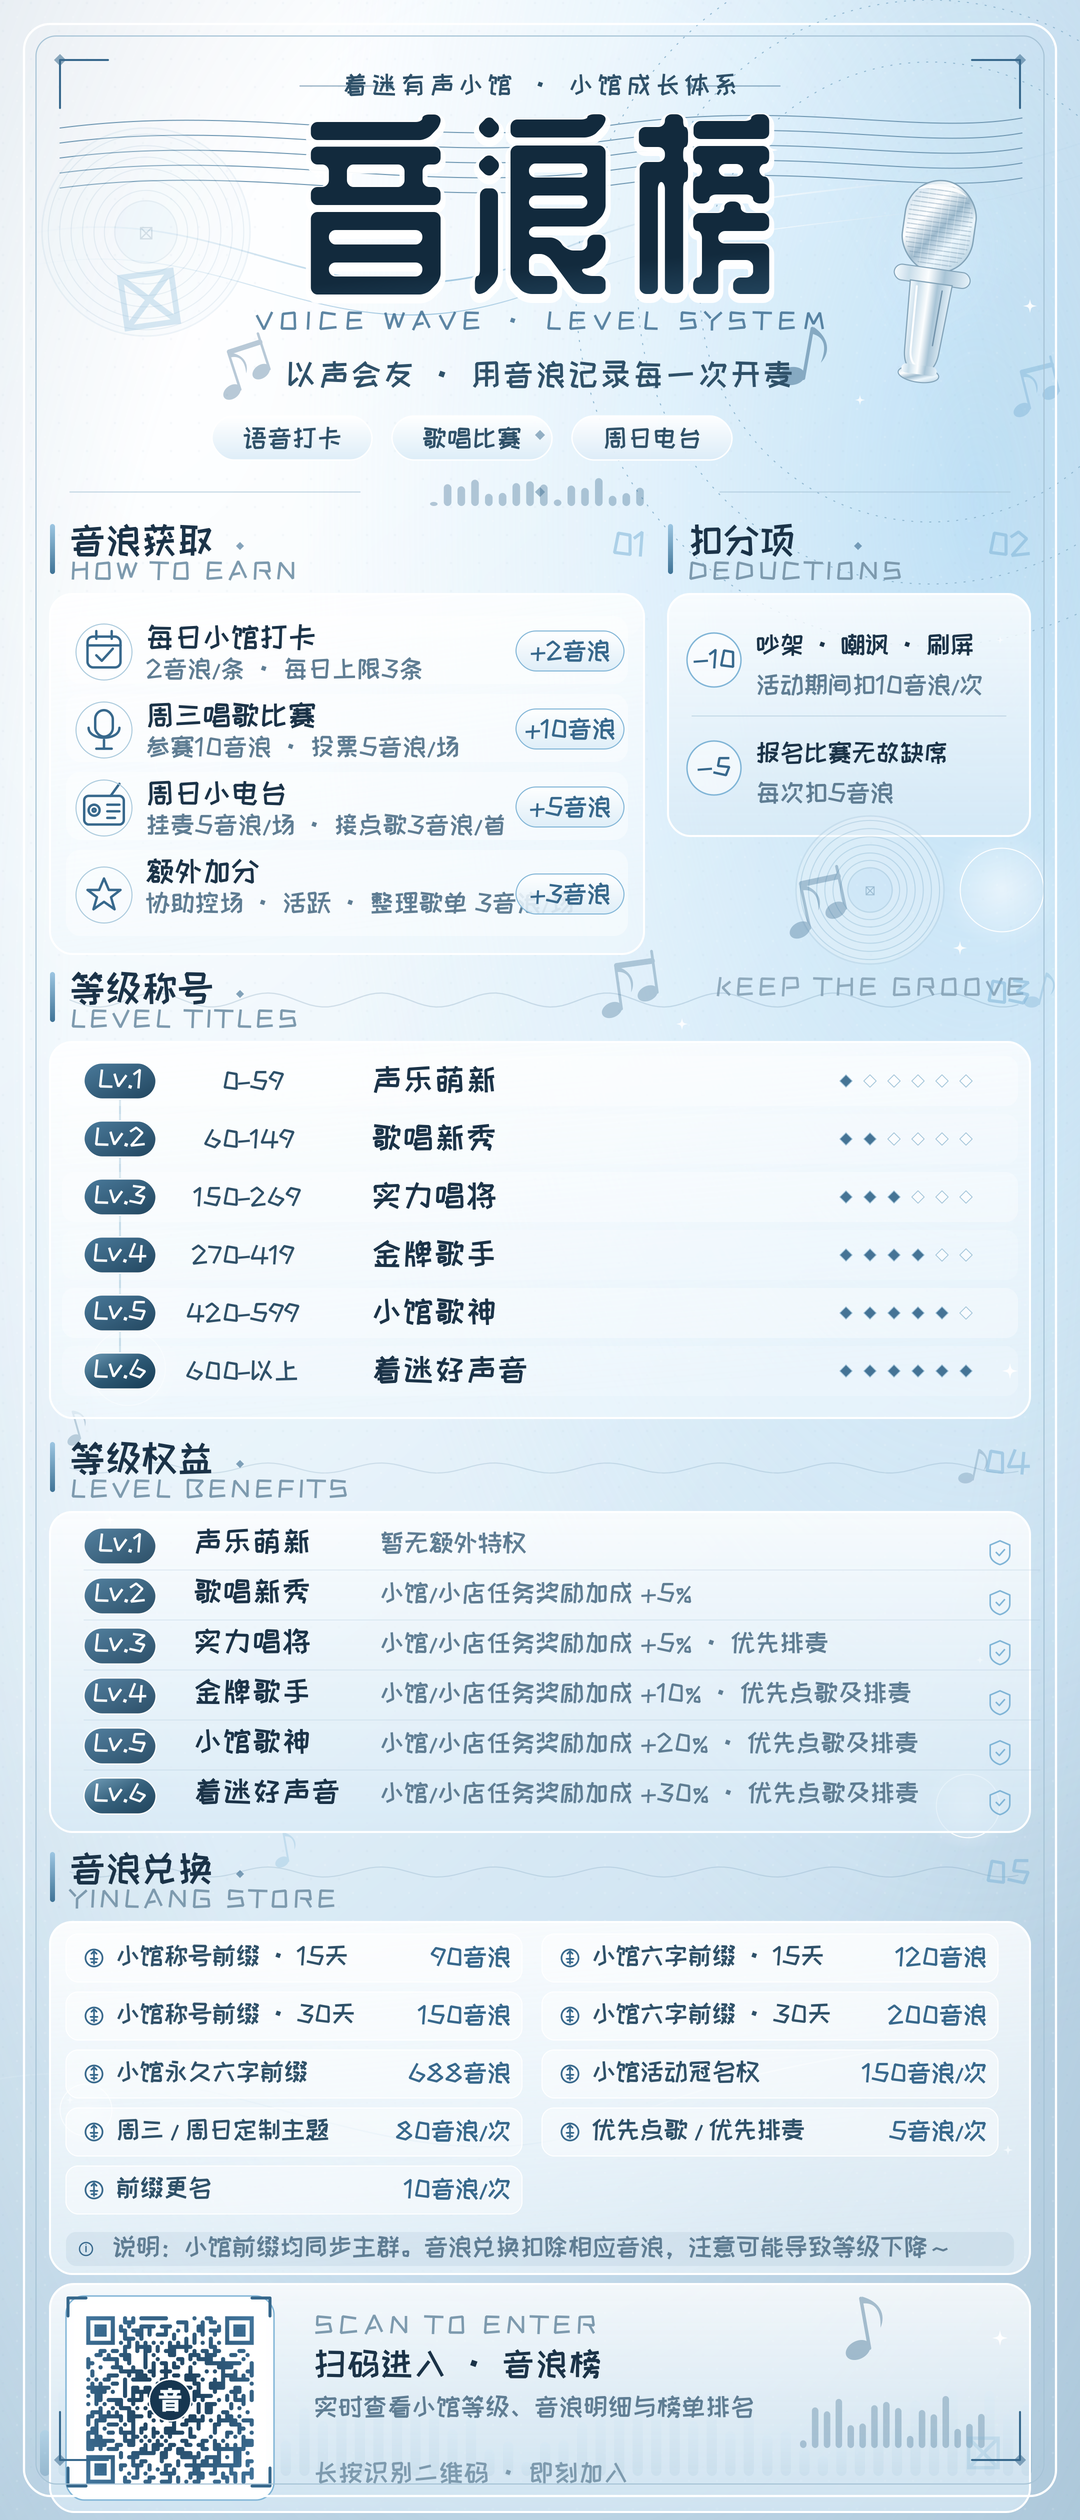
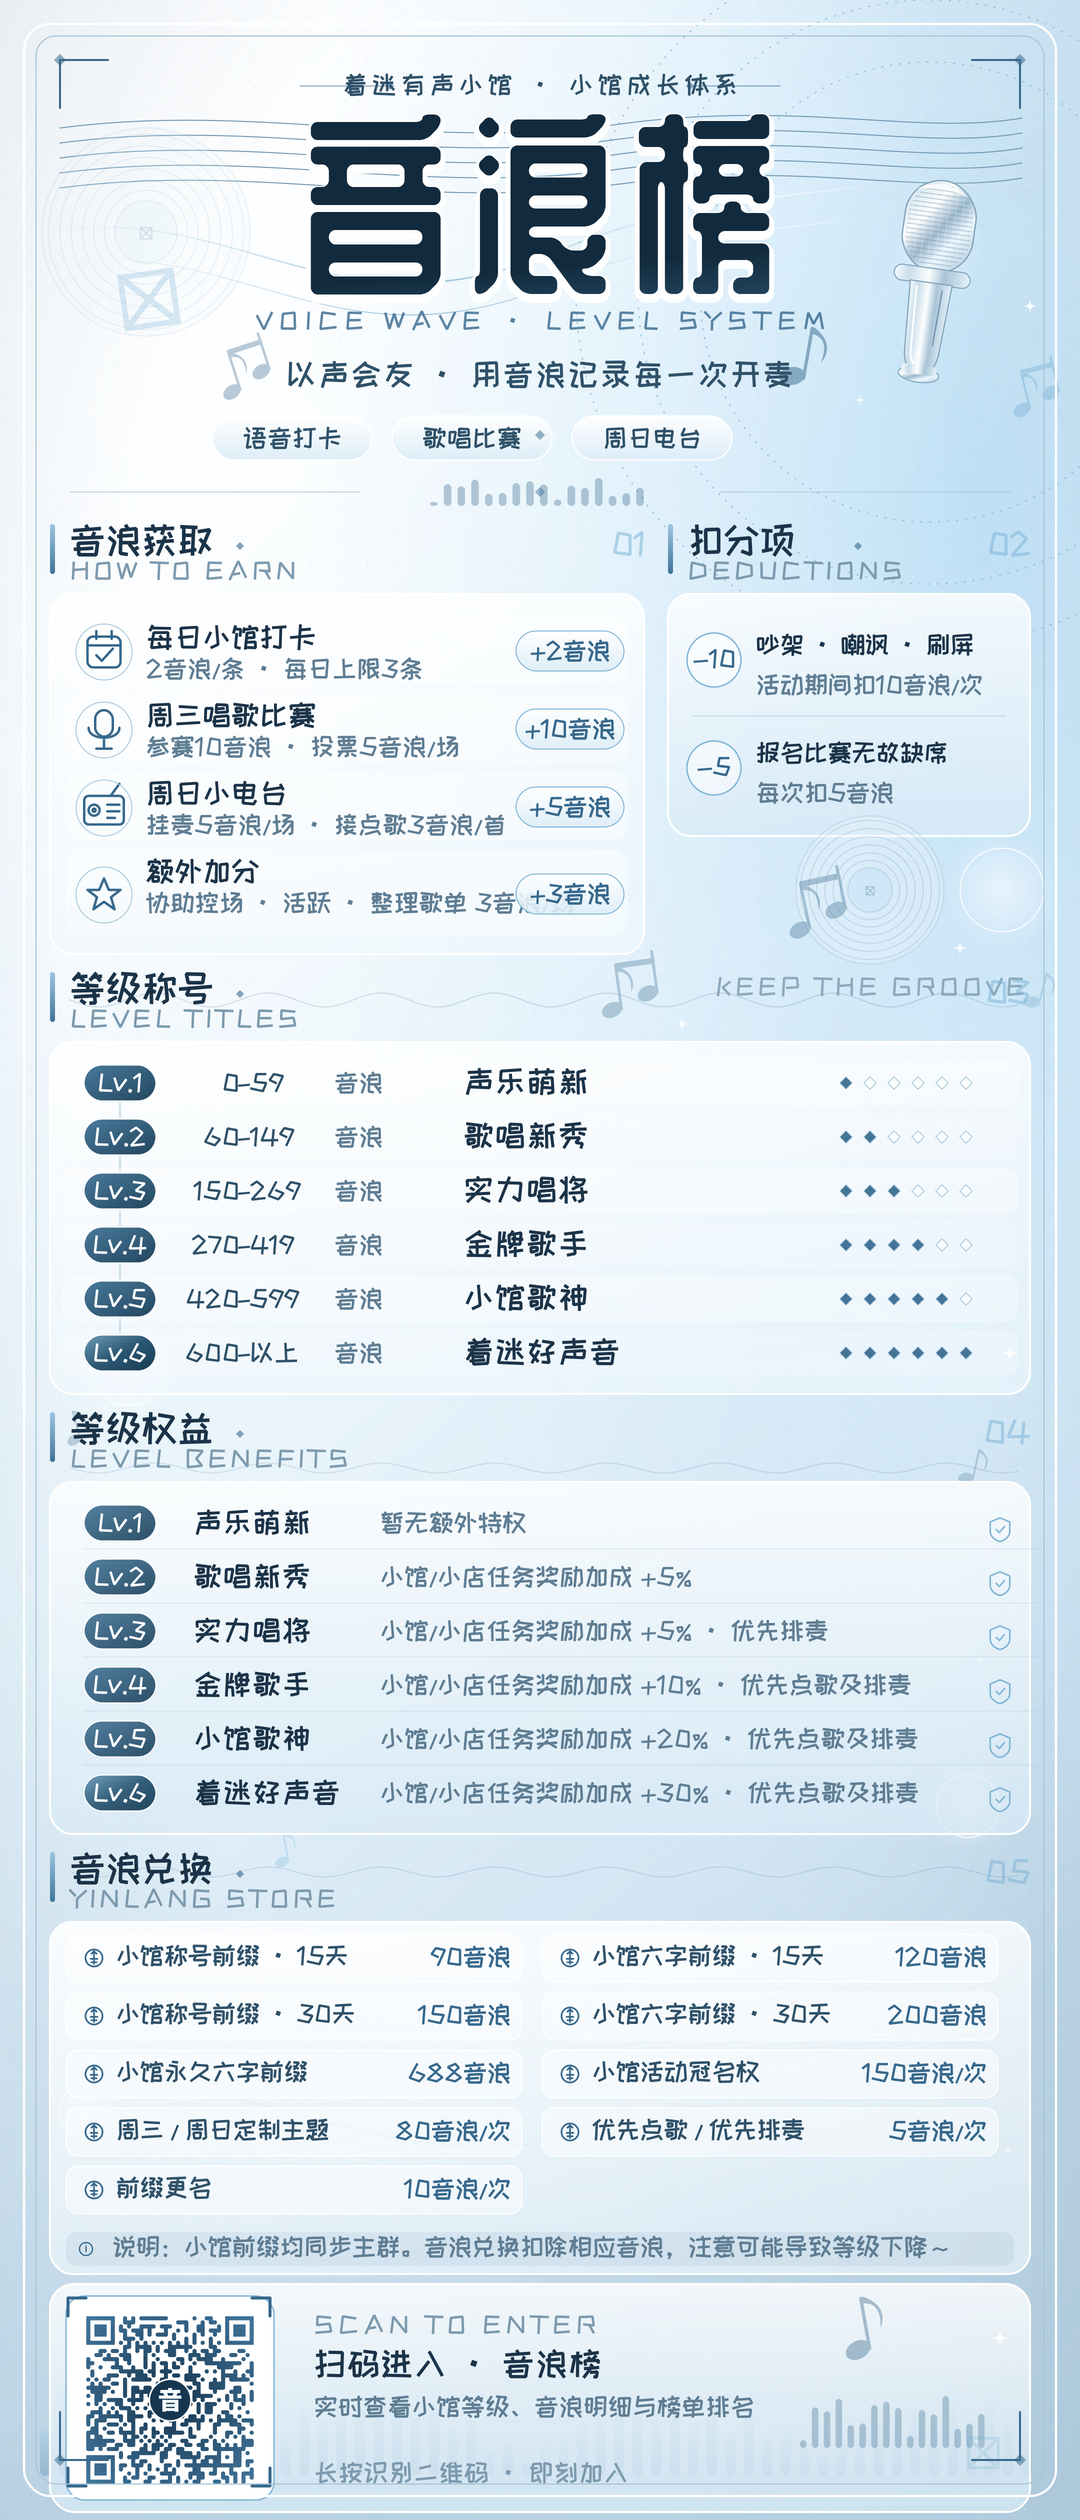
音浪榜：统一行高行距、称号加"音浪"单位、恢复原配色
- 等级称号与等级权益统一 54px 行距 / 46px 行高，卡片高度一致
- 称号数值后新增"音浪"单位并右对齐，称号列右移 50px
- 三张海报配色恢复为原蓝灰冰蓝方案

diff --git a/poster/rules-posters/generate.py b/poster/rules-posters/generate.py
@@ -693,7 +693,7 @@ def build_main():
     ly = 1000
     o.append(section(50, ly, "等级称号", "LEVEL TITLES", width=980, num="03"))
     card_y = ly + 42
-    o.append(rect(50, card_y, 980, 376, 22, fill="url(#glass)", op=1, stroke=WHITE, sw=2))
+    o.append(rect(50, card_y, 980, 352, 22, fill="url(#glass)", op=1, stroke=WHITE, sw=2))
     levels = [
         ("Lv.1", "0", "59", "声乐萌新"),
         ("Lv.2", "60", "149", "歌唱新秀"),
@@ -702,34 +702,36 @@ def build_main():
         ("Lv.5", "420", "599", "小馆歌神"),
         ("Lv.6", "600", "以上", "着迷好声音"),
     ]
-    row_y = card_y + 14
-    o.append(line(120, row_y + 28, 120, row_y + 6 * 58 - 28, stroke="#a9c9dc", sw=2, op=0.6))
+    row_y = card_y + 18
+    o.append(line(120, row_y + 23, 120, row_y + 5 * 54 + 23, stroke="#a9c9dc", sw=2, op=0.6))
     for i, (lv, lo, hi, name) in enumerate(levels):
-        y = row_y + i * 58
-        o.append(rect(62, y, 956, 50, 12, fill=WHITE, op=0.34 if i % 2 == 0 else 0.18))
-        o.append(circle(120, y + 25, 6, fill=WHITE, stroke=ICE_DEEP, sw=2))
+        y = row_y + i * 54
+        o.append(rect(62, y, 956, 46, 12, fill=WHITE, op=0.34 if i % 2 == 0 else 0.18))
+        o.append(circle(120, y + 23, 6, fill=WHITE, stroke=ICE_DEEP, sw=2))
         grad = "url(#levelGrad6)" if i == 5 else "url(#levelGrad)"
-        o.append(rect(84, y + 7, 72, 36, 18, fill=grad, op=1, stroke=WHITE, sw=1.2))
+        o.append(rect(84, y + 5, 72, 36, 18, fill=grad, op=1, stroke=WHITE, sw=1.2))
         o.append(T(120, y + 32, lv, size=26, fill=WHITE, weight=700, anchor="middle", font=SANS))
         # 数值区间：左值右对齐、破折号居中、右值左对齐，确保所有行破折号垂直对齐
-        o.append(T(238, y + 34, lo, size=26, fill=INK2, weight=600, anchor="end", ls=0.5))
-        o.append(T(244, y + 34, "–", size=26, fill=INK2, weight=600, anchor="middle", ls=0.5))
-        o.append(T(250, y + 34, hi, size=26, fill=INK2, weight=600, anchor="start", ls=0.5))
-        o.append(T(372, y + 35, name, size=32, fill=INK, weight=700, font=SERIF, ls=2))
+        o.append(T(238, y + 32, lo, size=26, fill=INK2, weight=600, anchor="end", ls=0.5))
+        o.append(T(244, y + 32, "–", size=26, fill=INK2, weight=600, anchor="middle", ls=0.5))
+        o.append(T(250, y + 32, hi, size=26, fill=INK2, weight=600, anchor="start", ls=0.5))
+        # 单位“音浪”固定右对齐，六行上下对齐
+        o.append(T(382, y + 32, "音浪", size=26, fill=MUT, weight=500, anchor="end", ls=0.5))
+        o.append(T(464, y + 33, name, size=32, fill=INK, weight=700, font=SERIF, ls=2))
         # 星级
         for k in range(6):
-            o.append(diamond(846 + k * 24, y + 25, 6.2,
+            o.append(diamond(846 + k * 24, y + 23, 6.2,
                              fill=ICE_DEEP if k <= i else "#ffffff",
                              op=0.92 if k <= i else 0.55,
                              stroke="#9fc2d8", sw=0.8))
         if i == 5:
-            o.append(sparkle(1010, y + 25, 8, fill=WHITE, op=0.95))
+            o.append(sparkle(1010, y + 23, 8, fill=WHITE, op=0.95))
 
     # ===== 四、等级特权 =====
-    py = 1470
+    py = 1440
     o.append(section(50, py, "等级权益", "LEVEL BENEFITS", width=980, num="04"))
     card_y = py + 42
-    o.append(rect(50, card_y, 980, 320, 22, fill="url(#glassDeep)", op=1, stroke=WHITE, sw=2))
+    o.append(rect(50, card_y, 980, 352, 22, fill="url(#glassDeep)", op=1, stroke=WHITE, sw=2))
     perks = [
         ("Lv.1", "声乐萌新", "暂无额外特权"),
         ("Lv.2", "歌唱新秀", "小馆/小店任务奖励加成 +5%"),
@@ -738,16 +740,16 @@ def build_main():
         ("Lv.5", "小馆歌神", "小馆/小店任务奖励加成 +20% · 优先点歌及排麦"),
         ("Lv.6", "着迷好声音", "小馆/小店任务奖励加成 +30% · 优先点歌及排麦"),
     ]
-    ry = card_y + 12
+    ry = card_y + 18
     for i, (lv, name, desc) in enumerate(perks):
-        y = ry + i * 50
-        o.append(rect(84, y + 4, 72, 36, 18, fill="url(#levelGrad6)" if i == 5 else "url(#levelGrad)", op=0.95, stroke=WHITE, sw=1.2))
-        o.append(T(120, y + 28, lv, size=26, fill=WHITE, weight=700, anchor="middle"))
-        o.append(T(194, y + 28, name, size=30, fill=INK, weight=700, font=SERIF, ls=2))
-        o.append(T(380, y + 28, desc, size=26, fill=MUT, weight=400, ls=0.5))
-        o.append(icon_shield(1000, y + 28, 0.7, c=ICE))
+        y = ry + i * 54
+        o.append(rect(84, y + 5, 72, 36, 18, fill="url(#levelGrad6)" if i == 5 else "url(#levelGrad)", op=0.95, stroke=WHITE, sw=1.2))
+        o.append(T(120, y + 32, lv, size=26, fill=WHITE, weight=700, anchor="middle"))
+        o.append(T(194, y + 33, name, size=30, fill=INK, weight=700, font=SERIF, ls=2))
+        o.append(T(380, y + 32, desc, size=26, fill=MUT, weight=400, ls=0.5))
+        o.append(icon_shield(1000, y + 29, 0.7, c=ICE))
         if i < 5:
-            o.append(line(84, y + 46, 1040, y + 46, stroke=LINE, sw=0.8, op=0.35))
+            o.append(line(84, y + 49, 1040, y + 49, stroke=LINE, sw=0.8, op=0.35))
 
     # ===== 五、积分兑换 =====
     ey = 1880
